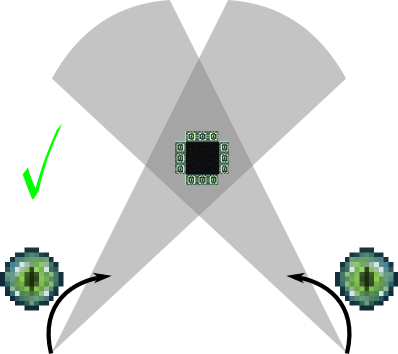
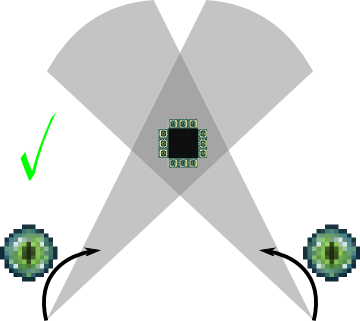
Shrink help images

diff --git a/index.html b/index.html
@@ -50,17 +50,17 @@
         taking the first measurement, move several hundred blocks to either
         side. This prevents bearings which are close to parallel (bad
         for estimation). Taking additional measurements also improves accuracy.</p>
-        <div class="caption" style="width: 320px;">
+        <div class="caption" style="width: 290px;">
             <img src="accuracy2.png" /><br />
             <strong>Bad: </strong>Close starting points amplify measurement
             errors, giving you a bad estimate.
         </div>
-        <div class="caption" style="width: 405px;">
+        <div class="caption" style="width: 365px;">
             <img src="accuracy1.png" /><br />
             <strong>Good: </strong>Far away measurements give you an accurate
             estimate.
         </div>
-        <div class="caption" style="width: 445px;">
+        <div class="caption" style="width: 400px;">
             <img src="accuracy3.png" /><br />
             <strong>Better: </strong>Additional measurements give you an even
             better bearing.
